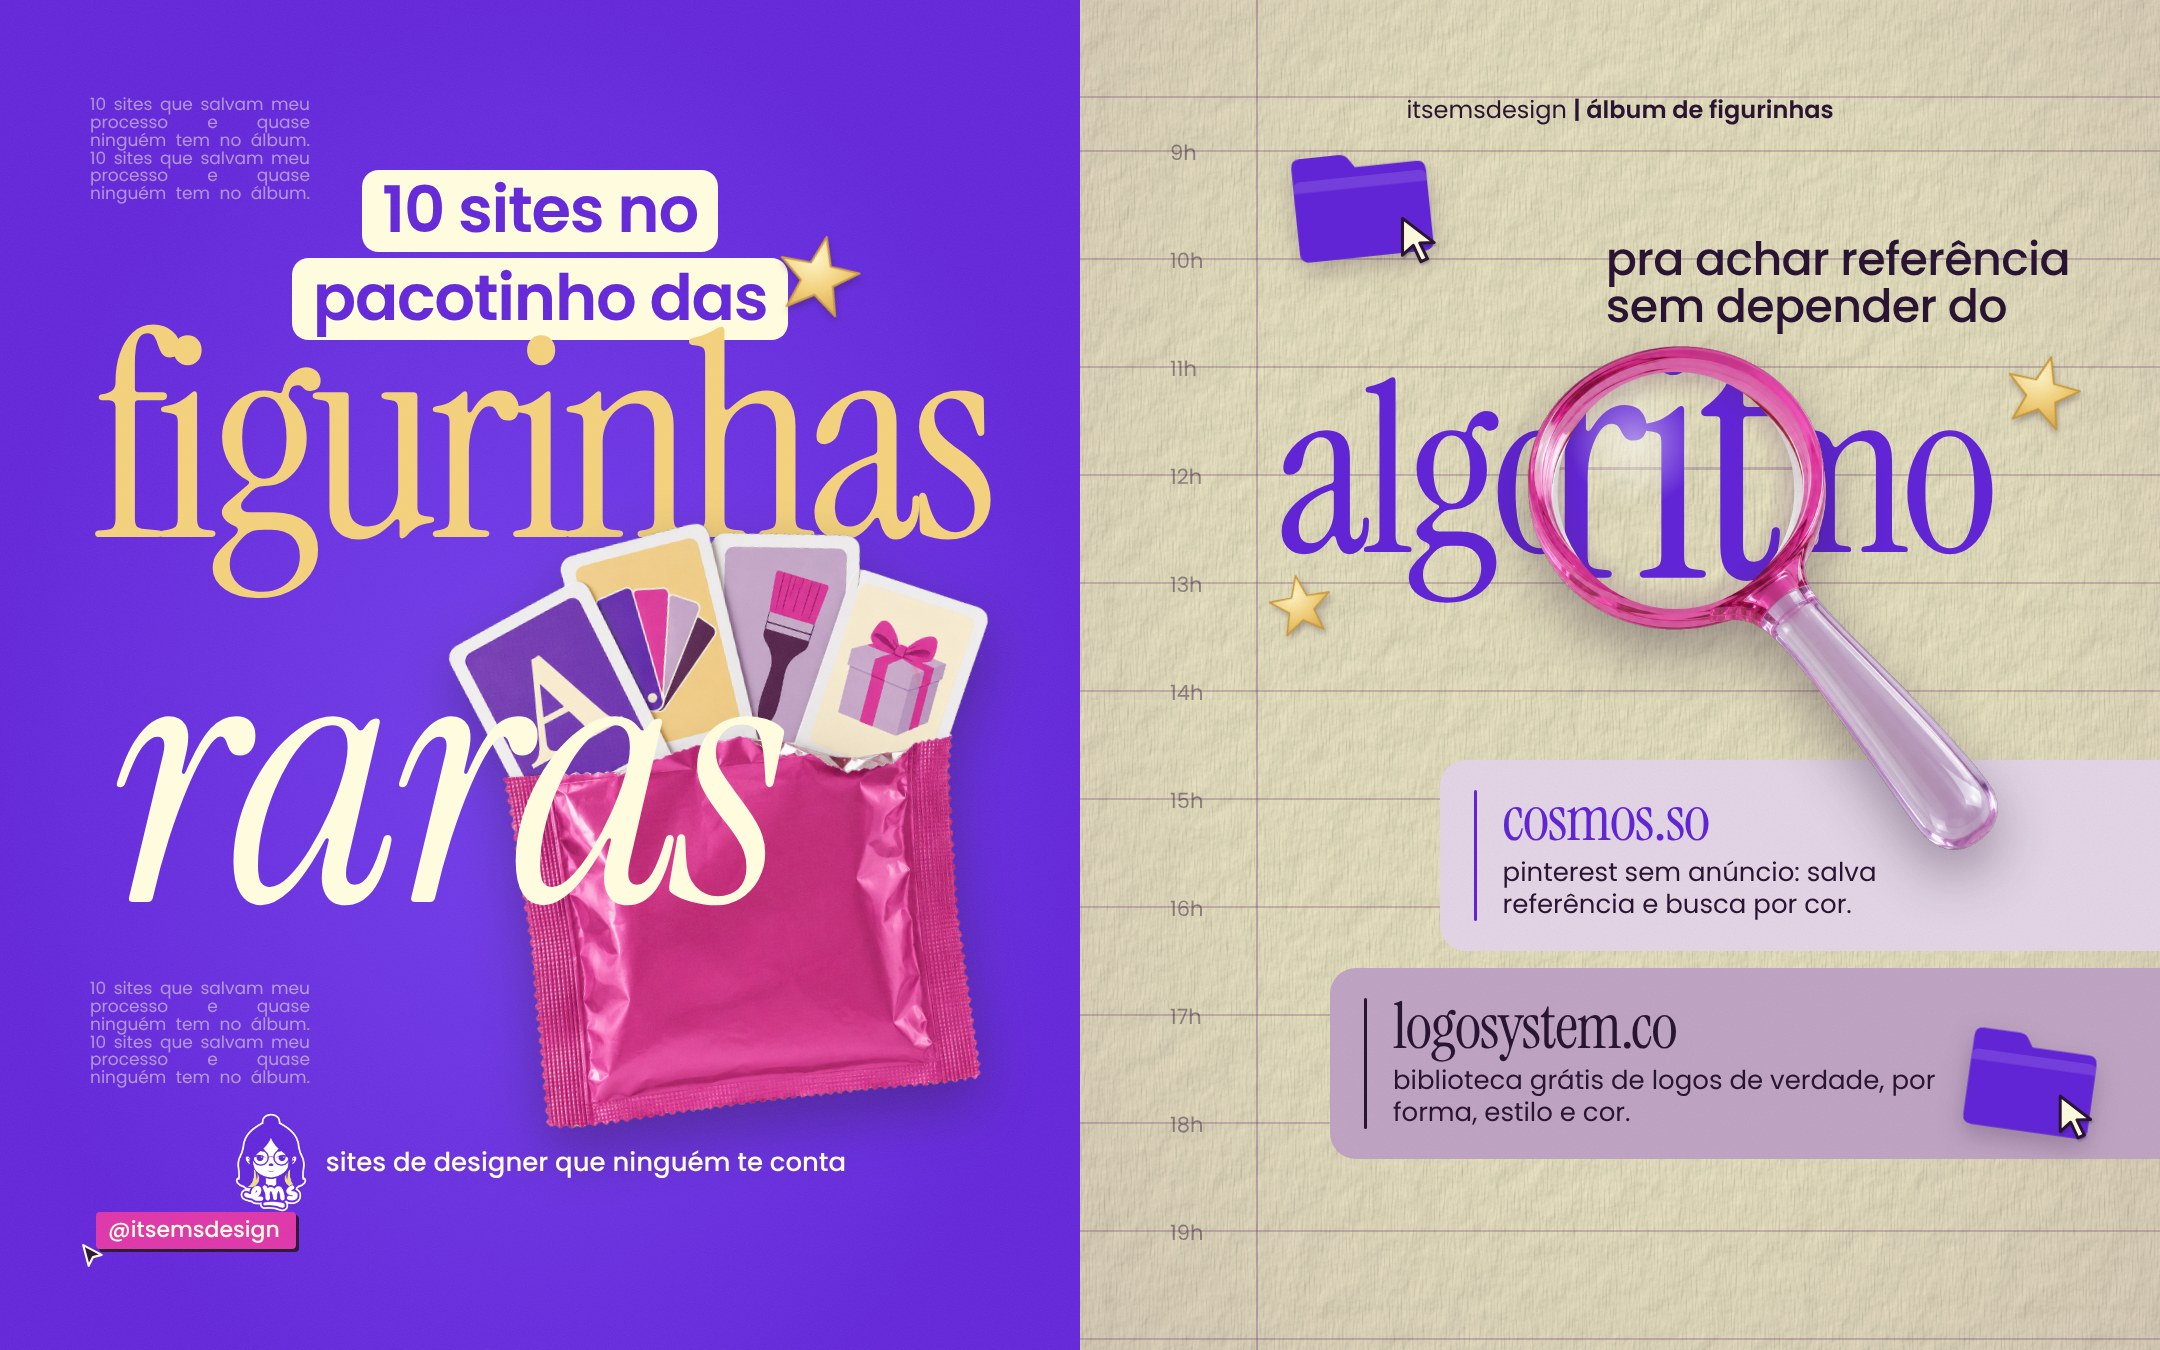
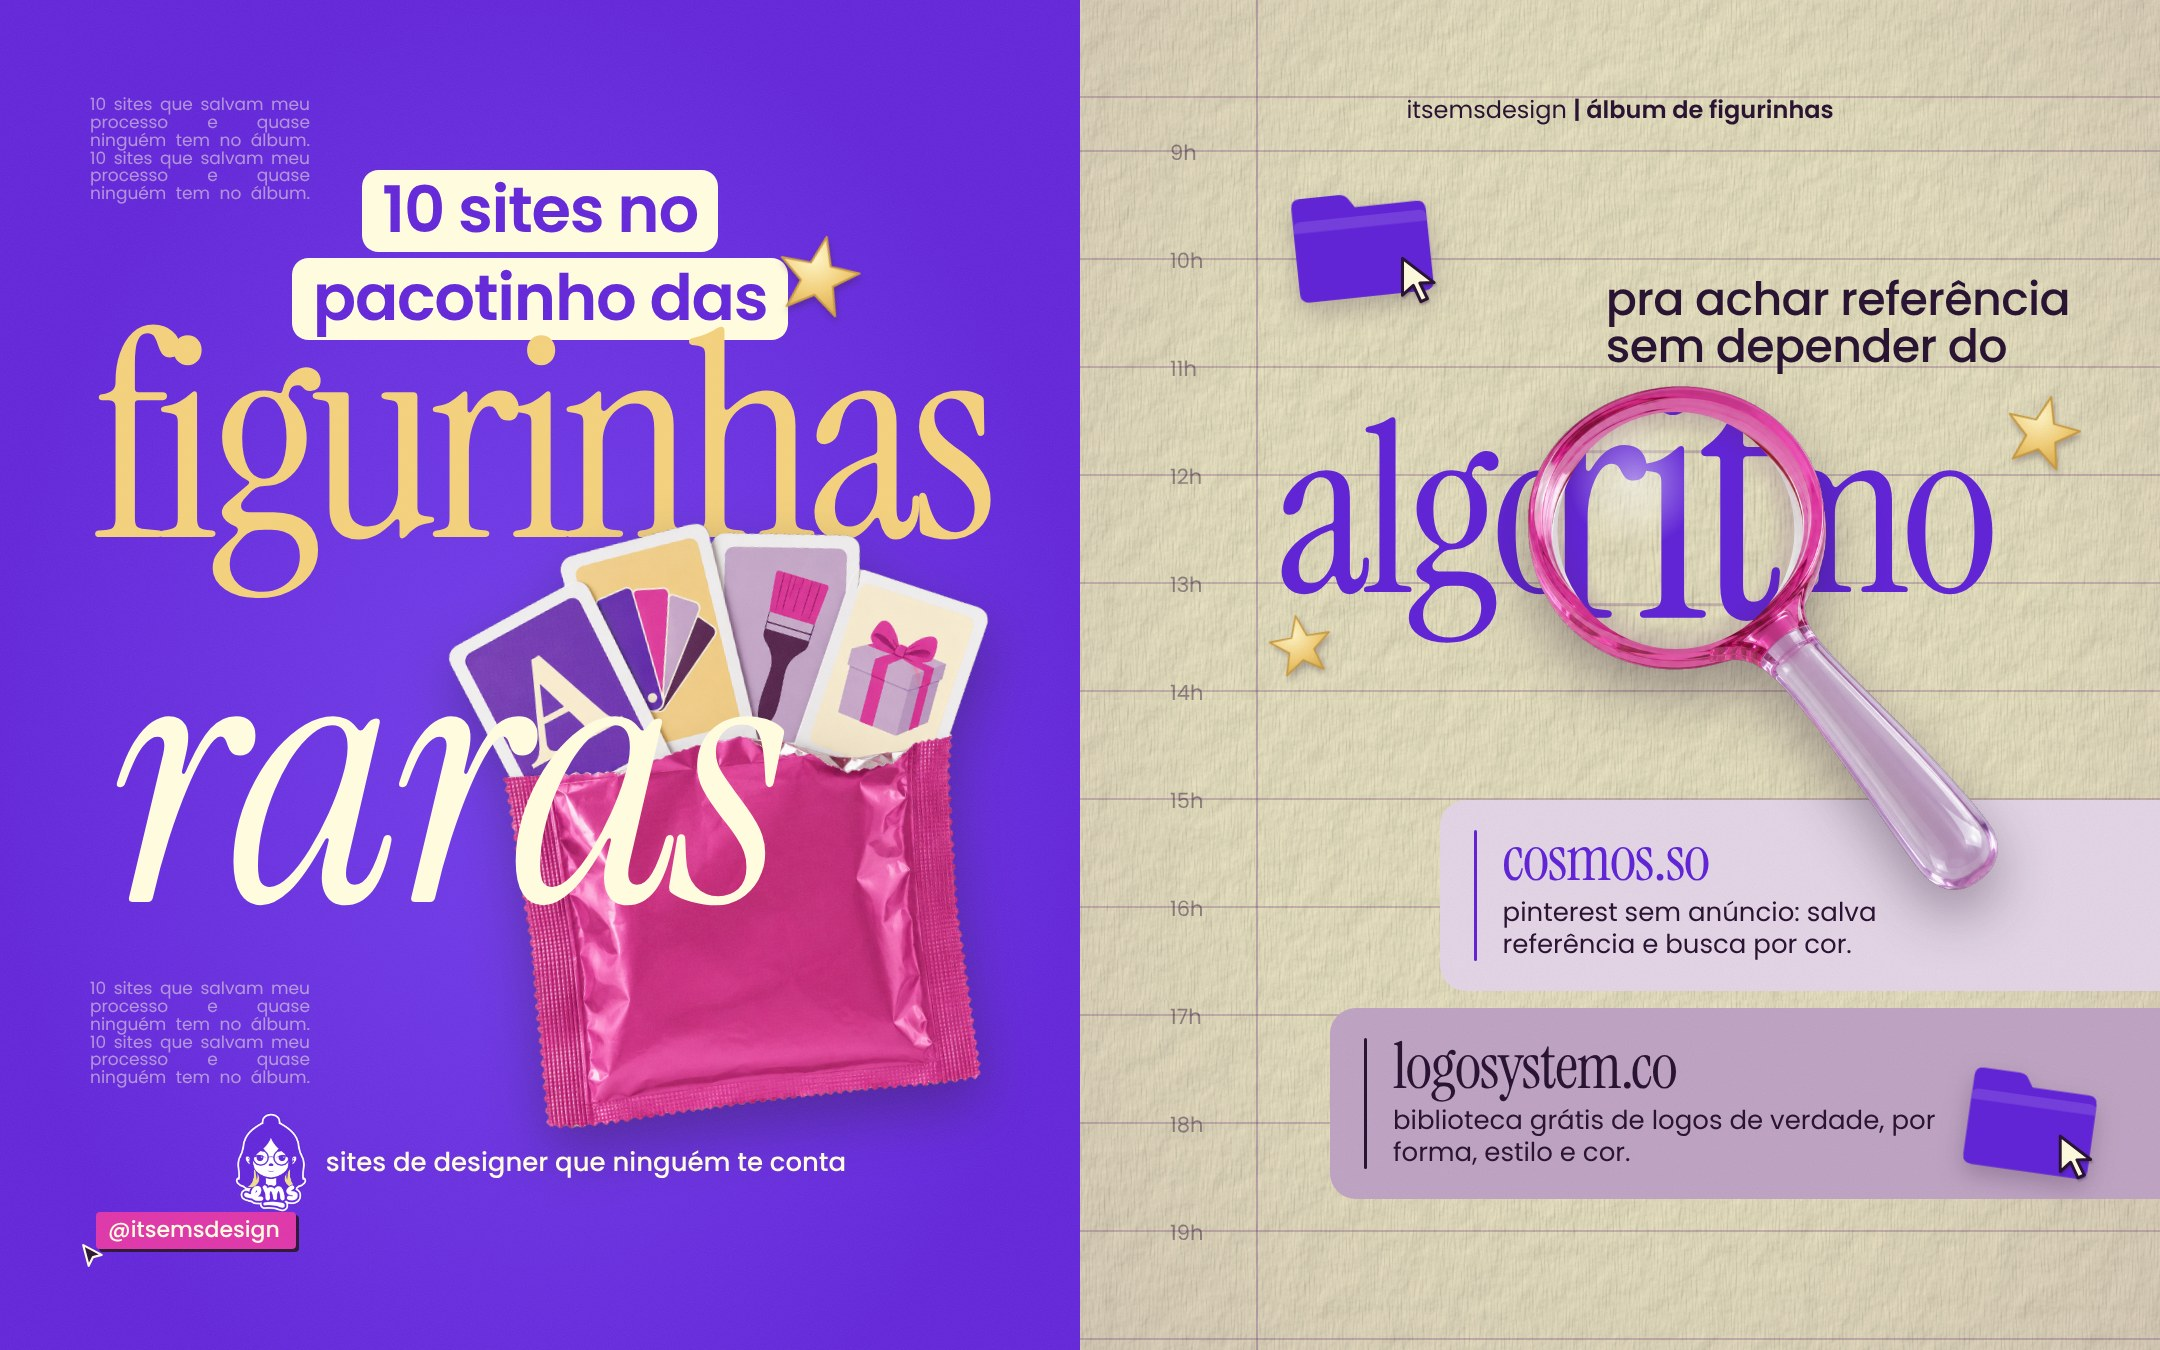
EMS figurinhas raras v4: pesquisa 40px abaixo (meio-termo)
Claude-Session: https://claude.ai/code/session_01CmCiKB9wFc4qQovptupnZT

Changed region(s): [[0.5894, 0.1867, 1.0, 0.9022], [0.5894, 0.0933, 0.6824, 0.2489]]

diff --git a/Emi/ems-album-figurinhas/projeto/carrossel.html b/Emi/ems-album-figurinhas/projeto/carrossel.html
@@ -101,20 +101,20 @@ const FOLHA = `<div class="abs" style="inset:0;background:var(--ivory-2)"></div>
   lamina(1, `
     <div class="abs" style="left:0;right:0;top:92px;text-align:center;font-family:var(--sans);font-size:24px;color:var(--tinta)">itsemsdesign <b style="font-weight:600">| álbum de figurinhas</b></div>
     ${linhas}
-    ${pasta(206, 146, 150, -6, css('violeta'))}
-    ${cursor(316, 214, 52)}
-    <div class="abs" style="right:90px;top:236px;text-align:left;font-family:var(--sans);font-weight:500;font-size:46px;line-height:1.02;color:var(--tinta);letter-spacing:-.015em">pra achar referência<br>sem depender do</div>
-    <div class="g" id="alg" style="left:196px;top:380px;font-size:236px;color:var(--violeta)">algoritmo</div>
-    ${estrela({ x: 920, y: 352, tam: 84, r: 14 })}
-    ${estrela({ x: 186, y: 572, tam: 70, r: -10 })}
-    <div class="barra" style="left:360px;right:0;top:760px;background:var(--lavanda-2)">
+    ${pasta(206, 186, 150, -6, css('violeta'))}
+    ${cursor(316, 254, 52)}
+    <div class="abs" style="right:90px;top:276px;text-align:left;font-family:var(--sans);font-weight:500;font-size:46px;line-height:1.02;color:var(--tinta);letter-spacing:-.015em">pra achar referência<br>sem depender do</div>
+    <div class="g" id="alg" style="left:196px;top:420px;font-size:236px;color:var(--violeta)">algoritmo</div>
+    ${estrela({ x: 920, y: 392, tam: 84, r: 14 })}
+    ${estrela({ x: 186, y: 612, tam: 70, r: -10 })}
+    <div class="barra" style="left:360px;right:0;top:800px;background:var(--lavanda-2)">
       <div class="fio" style="background:var(--violeta)"></div>
       <div><span class="nome" style="color:var(--violeta)">${s1.nome}</span><span class="pra" style="color:var(--tinta)">${s1.pra}</span></div></div>
-    <div class="barra" style="left:250px;right:0;top:968px;background:var(--lavanda)">
+    <div class="barra" style="left:250px;right:0;top:1008px;background:var(--lavanda)">
       <div class="fio" style="background:var(--tinta)"></div>
       <div><span class="nome" style="color:var(--tinta)">${s2.nome}</span><span class="pra" style="color:var(--tinta)">${s2.pra}</span></div></div>
-    ${pasta(880, 1028, 140, 8, css('violeta'))}
-    ${cursor(974, 1092, 50)}
+    ${pasta(880, 1068, 140, 8, css('violeta'))}
+    ${cursor(974, 1132, 50)}
     <img class="objeto" id="lupa" src="recortes/lupa.png" style="left:0;top:0;width:470px">
     <div class="abs" id="lente" style="inset:0"><div class="abs" id="lente-in" style="inset:0">${FOLHA}</div>
       <div class="abs" id="brilho-lente" style="inset:0"></div></div>
